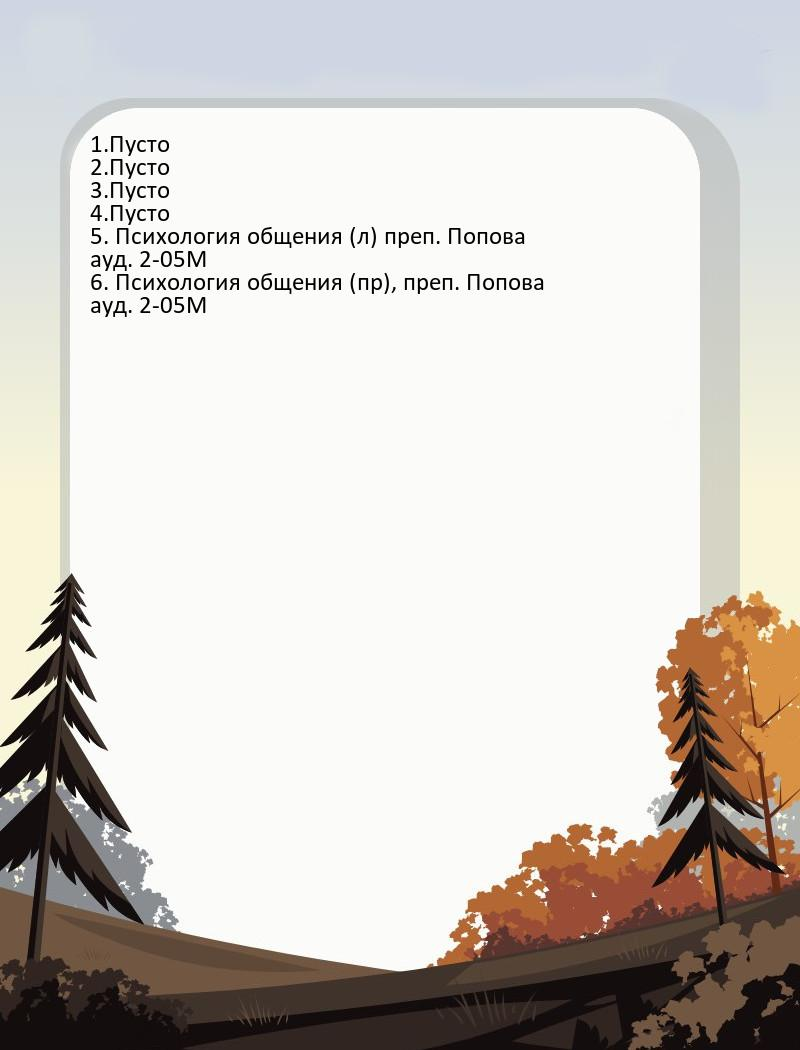
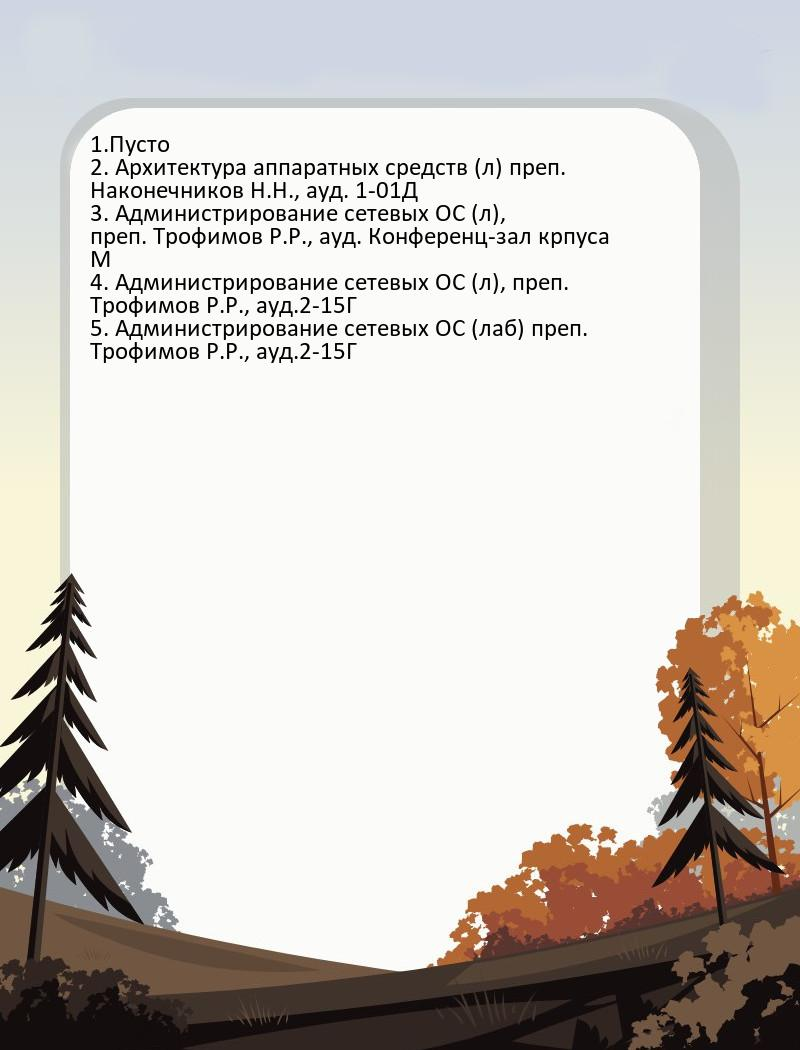
chore: добавление группы сак-211

Changed region(s): [[0.0938, 0.1524, 0.75, 0.3657]]

diff --git a/main.py b/main.py
@@ -94,7 +94,7 @@ def input_user_information(call):
     bot.delete_message(call.message.chat.id, call.message.message_id)
     bot.send_photo(
         chat_id= call.message.chat.id,
-        photo= open(schedule.geniration_schedule_image(media.schedule_template, save_url, number_day, f'{media.media}/{registration.information_user(call.message.chat.id)}/САкф-212.xlsx', numerator_and_denominator), 'rb'),
+        photo= open(schedule.geniration_schedule_image(media.schedule_template, save_url, number_day, f'{media.media}/{registration.information_user(call.message.chat.id)}/{registration.information_user(call.message.chat.id)}.xlsx', numerator_and_denominator), 'rb'),
         caption= f"<b>День недели:</b> {week_day[number_day]}\n<b>Неделя:</b> {numerator_and_denominator_text[numerator_and_denominator]}\n<b>Группа:</b> {registration.information_user(call.message.chat.id)}",
         reply_markup= keydoard_choise_day_in_week, parse_mode= "html"
     )
@@ -130,7 +130,7 @@ def handler_imput_text(message):
     if registration.chack_registration(message.from_user.id) == True:
         if message.text == 'Расписание пар':
             save_url = link_generation.link_generation(media.media, registration.information_user(message.from_user.id), 'image.jpg')
-            bot.send_photo(message.chat.id,open(schedule.geniration_schedule_image(media.schedule_template, save_url, datetime.date.today().weekday(), f'{media.media}/{registration.information_user(message.from_user.id)}/САкф-212.xlsx', numerator_and_denominator), 'rb'),caption=f"<b>День недели:</b> {week_day[datetime.date.today().weekday()]}\n<b>Неделя:</b> {numerator_and_denominator_text[numerator_and_denominator]}\n<b>Группа:</b> {registration.information_user(message.from_user.id)}",reply_markup=keydoard_choise_day_in_week, parse_mode="html")
+            bot.send_photo(message.chat.id,open(schedule.geniration_schedule_image(media.schedule_template, save_url, datetime.date.today().weekday(), f'{media.media}/{registration.information_user(message.from_user.id)}/{registration.information_user(message.from_user.id)}.xlsx', numerator_and_denominator), 'rb'),caption=f"<b>День недели:</b> {week_day[datetime.date.today().weekday()]}\n<b>Неделя:</b> {numerator_and_denominator_text[numerator_and_denominator]}\n<b>Группа:</b> {registration.information_user(message.from_user.id)}",reply_markup=keydoard_choise_day_in_week, parse_mode="html")
     else:
         if message.text == 'Расписание пар':
             bot.send_message(message.chat.id, 'Вы не зарегистрированны')

diff --git a/registration/registration.py b/registration/registration.py
@@ -1,6 +1,6 @@
 import sqlite3
 
-names_group = ['сак-212']
+names_group = ['сак-212', 'сак-211']
 
 #Функция проверки регистрации
 def chack_registration(id):
